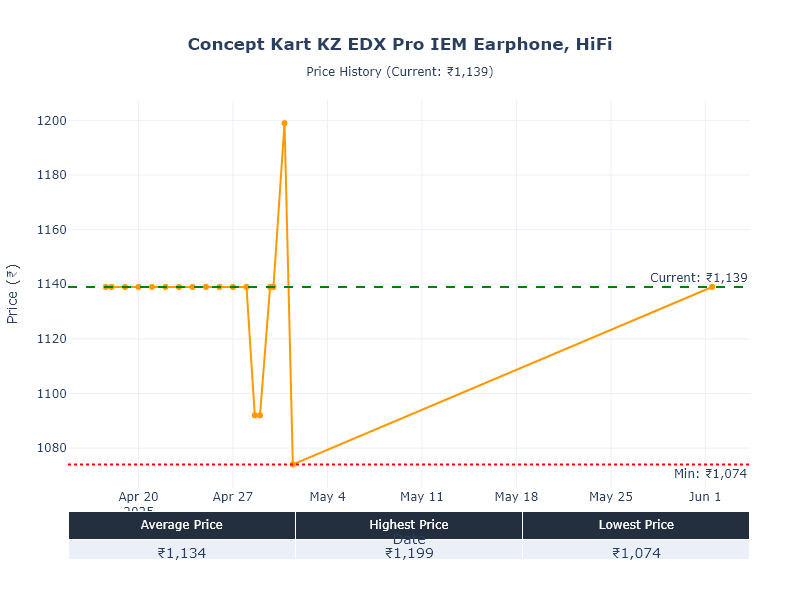
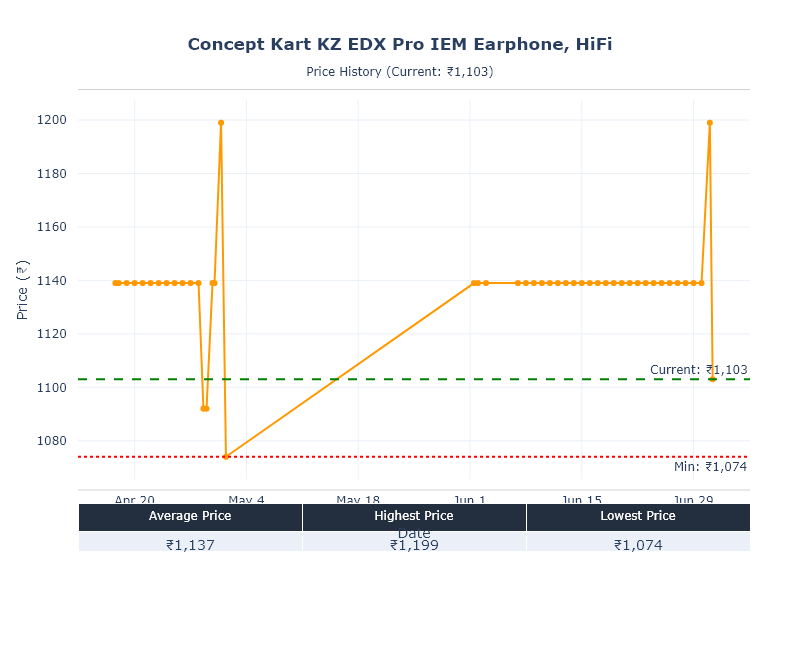
github actions workflow added

diff --git a/chart_generator.py b/chart_generator.py
@@ -122,11 +122,18 @@ def generate_chart_image(
             title=f"<b>{product_name[:50]}</b><br><sub>Price History (Current: ₹{new_price:,.0f})</sub>",
             title_x=0.5,
             template="plotly_white",
-            height=600,
+            height=650,  # Increased height to accommodate more space
             width=800,
-            margin=dict(t=100, b=20, l=50, r=50),
+            margin=dict(t=100, b=80, l=50, r=50, pad=10),  # Increased bottom margin and added padding
             showlegend=False,
             xaxis_rangeslider_visible=False,
+            plot_bgcolor='white',
+            xaxis=dict(
+                showline=True,
+                linewidth=1,
+                linecolor='lightgray',
+                mirror=True
+            ),
         )
 
         # Update axes

diff --git a/config.py b/config.py
@@ -1,7 +1,9 @@
 import os
 
 # Path Configuration
-DATA_DIR = "D:/Documents/Python/Amazkart/data"
+# Get the absolute path of the directory where the script is located
+BASE_DIR = os.path.dirname(os.path.abspath(__file__))
+DATA_DIR = os.path.join(BASE_DIR, "data")
 PRODUCTS_CSV = os.path.join(DATA_DIR, "products.csv")
 
 # Email Configuration
@@ -10,5 +12,4 @@ EMAIL_TO = os.getenv("WHC_TO_EMAIL")
 EMAIL_PASSWORD = os.getenv("WHC_EMAIL_PASS")
 
 # Selenium Configuration
-GECKODRIVER_PATH = "C:/programs/geckodriver.exe"
 HEADLESS = True  # Set to True for headless mode

diff --git a/price_tracker.py b/price_tracker.py
@@ -8,7 +8,7 @@ from selenium.webdriver.common.by import By
 from selenium.webdriver.firefox.options import Options
 from selenium.webdriver.firefox.service import Service as FirefoxService
 from webdriver_manager.firefox import GeckoDriverManager
-from config import DATA_DIR, PRODUCTS_CSV, GECKODRIVER_PATH, HEADLESS
+from config import DATA_DIR, PRODUCTS_CSV, HEADLESS
 
 
 def initialize_driver():

diff --git a/main.py b/main.py
@@ -1,5 +1,5 @@
 import traceback
-import os
+
 import random
 from selenium.webdriver.common.by import By
 import time
@@ -14,7 +14,7 @@ from price_tracker import (
 from email_sender import send_price_alert
 from chart_generator import generate_chart_image
 
-os.chdir("D:/Documents/Python/Amazkart")
+
 
 
 def track_prices():

diff --git a/last_run.py b/last_run.py
@@ -11,3 +11,5 @@ def last_run():
 
     with open("lastrun.txt", "w", encoding="utf-8") as f:
         f.writelines(last_run_data)
+
+    print(f"Last run time updated to {new_time}")
